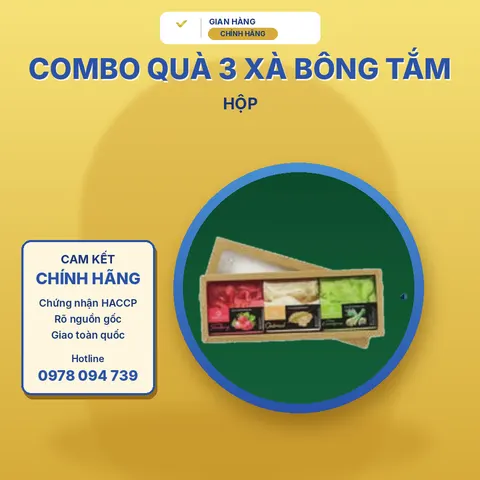
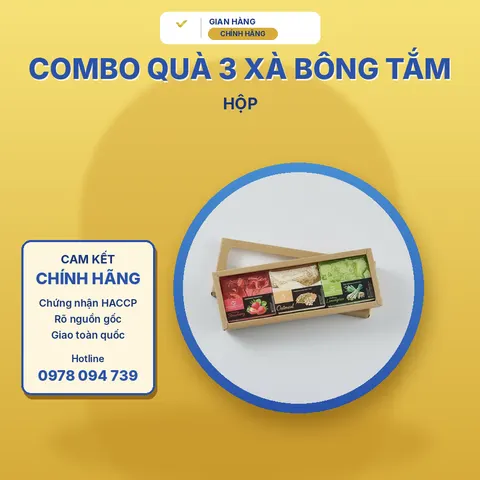
Ảnh rõ nét cho nước rửa tay khô (gel) và combo 3 xà bông (#35)
Claude-Session: https://claude.ai/code/session_01DQj8G6CGLo91ChK76bQ5ip

Changed region(s): [[0.375, 0.3438, 0.875, 0.8438]]

diff --git a/index.html b/index.html
@@ -724,8 +724,8 @@ const IMG = {
   242: ["khung/242.jpg", "that/tbeauty-mat-na-queen-xanh.jpg", "that/tbeauty-mat-na-queen-nau.jpg", "that/tbeauty-mat-na-queen-hong.jpg", "that/tbeauty-mat-na-queen-xanh-hop.jpg", "that/tbeauty-mat-na-queen-nau-hop.jpg", "that/tbeauty-mat-na-queen-hong-hop.jpg", "that/tbeauty-mat-na-queen-xanh-hop-2.jpg", "that/tbeauty-mat-na-queen-nau-hop-2.jpg", "that/tbeauty-mat-na-queen-hong-hop-2.jpg"],
   243: ["khung/243.jpg", "that/dau-goi-trai-nhau-noni.jpg"],
   244: ["khung/244.jpg", "that/xa-bong-tri-nhau-noni.jpg", "that/xa-bong-que-cinnamon.jpg", "that/xa-bong-chum-ngay-moringa.jpg"],
-  245: ["khung/245.jpg", "that/nuoc-rua-tay-hand-wash.jpg"],
-  246: ["khung/246.jpg", "catalog/combo-3-xa-bong.jpg"],
+  245: ["khung/245.jpg", "that/nuoc-rua-tay-kho-gel.jpg"],
+  246: ["khung/246.jpg", "that/combo-3-xa-bong-dau-yen-mach-dua-leo.jpg", "that/combo-3-xa-bong-mang-cut-bap-hoa-hong.jpg"],
 };
 const SETS = [
   ["Set quà yến tinh chế sợi ngắn 50g"],
@@ -740,7 +740,7 @@ const SETS = [
 const HET_HANG = [];
 const DIR = "images/san-pham/";
 // Đổi số phiên bản khi thay ảnh catalog để trình duyệt tải ảnh mới thay vì ảnh cũ đã lưu.
-const IMG_V = "?v=26";
+const IMG_V = "?v=27";
 // Ảnh hiển thị dùng bản WebP (nhẹ hơn ~40%); bản .jpg gốc giữ lại cho dữ liệu SEO và chia sẻ.
 const webp = f => f.replace(/\.jpg$/, ".webp");
 const full = f => DIR + webp(f) + (/^(catalog|that|khung|tet)\//.test(f) ? IMG_V : "");
